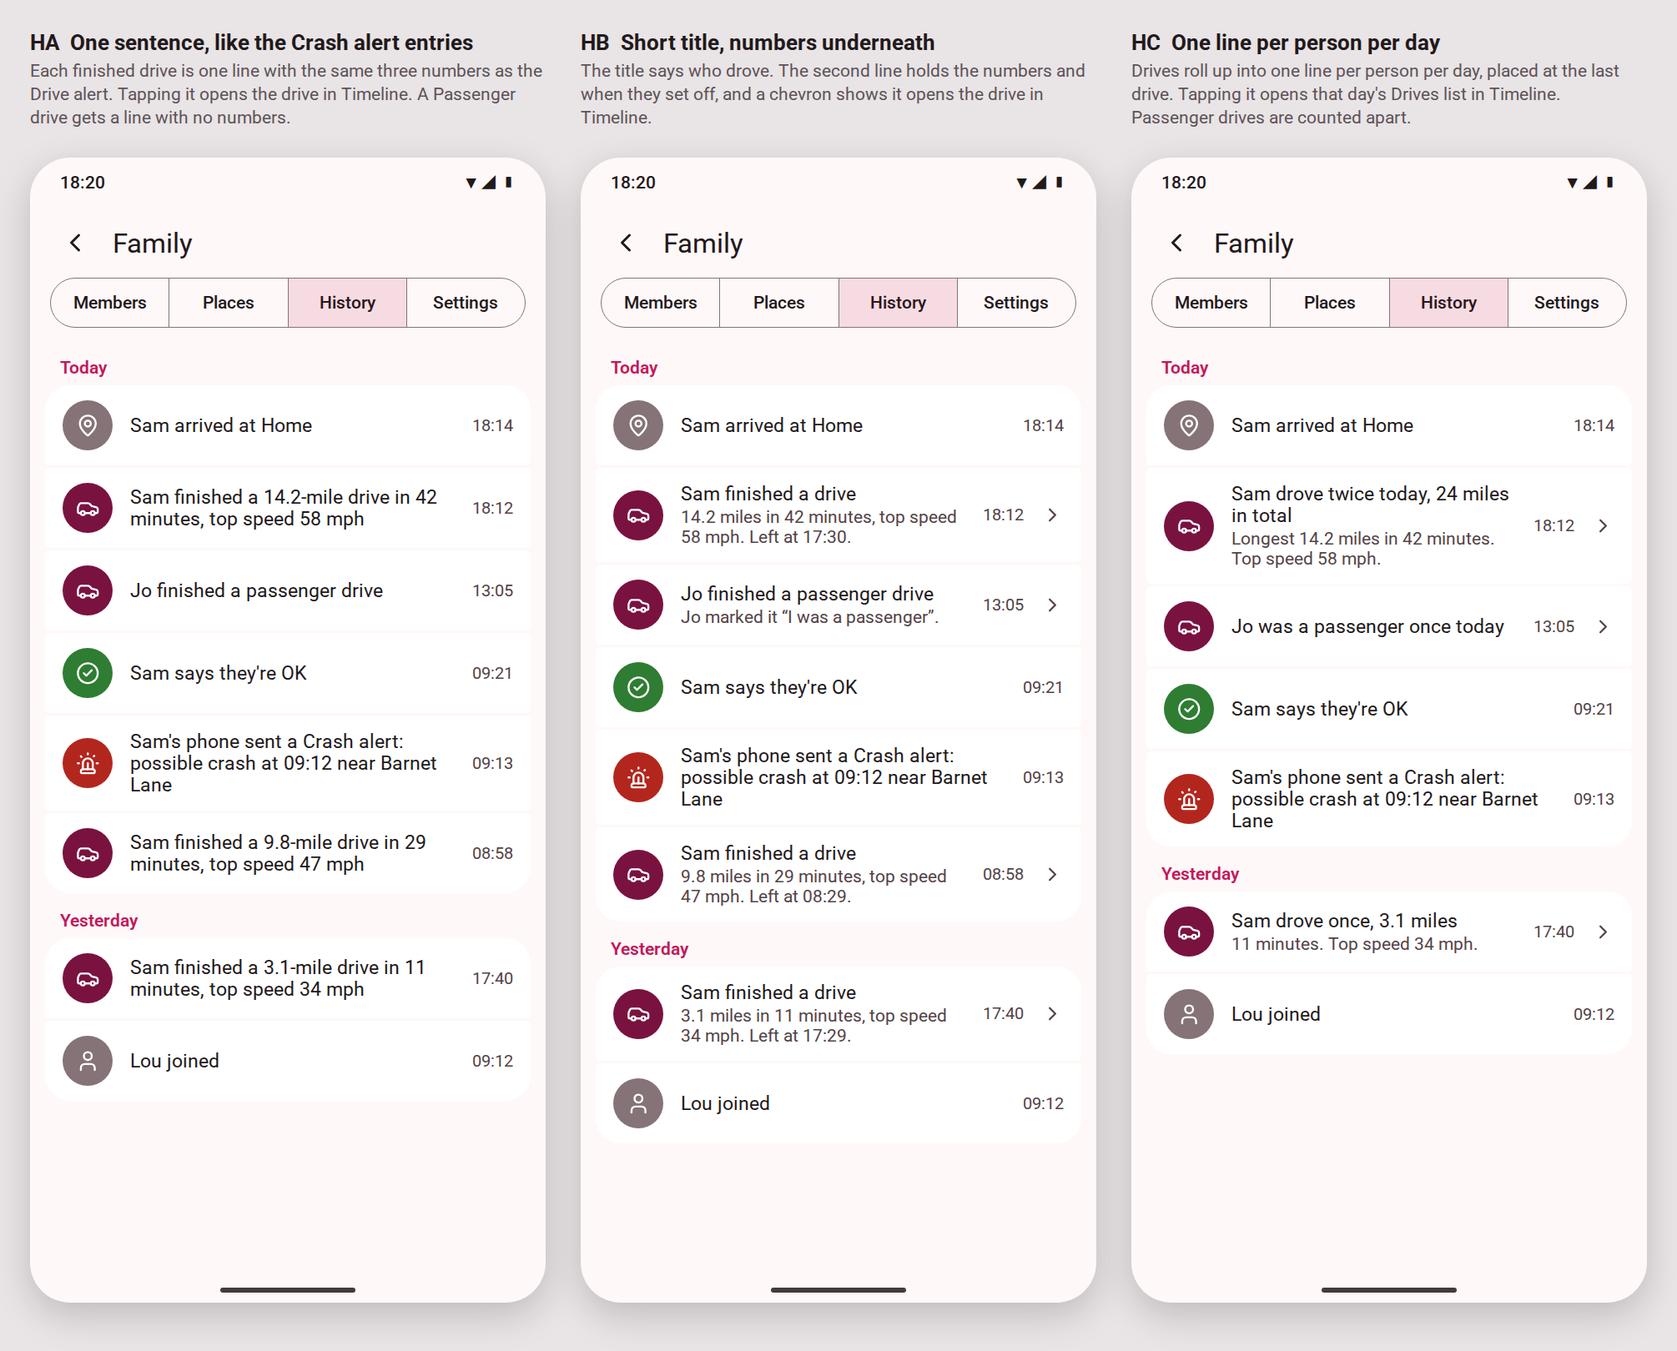
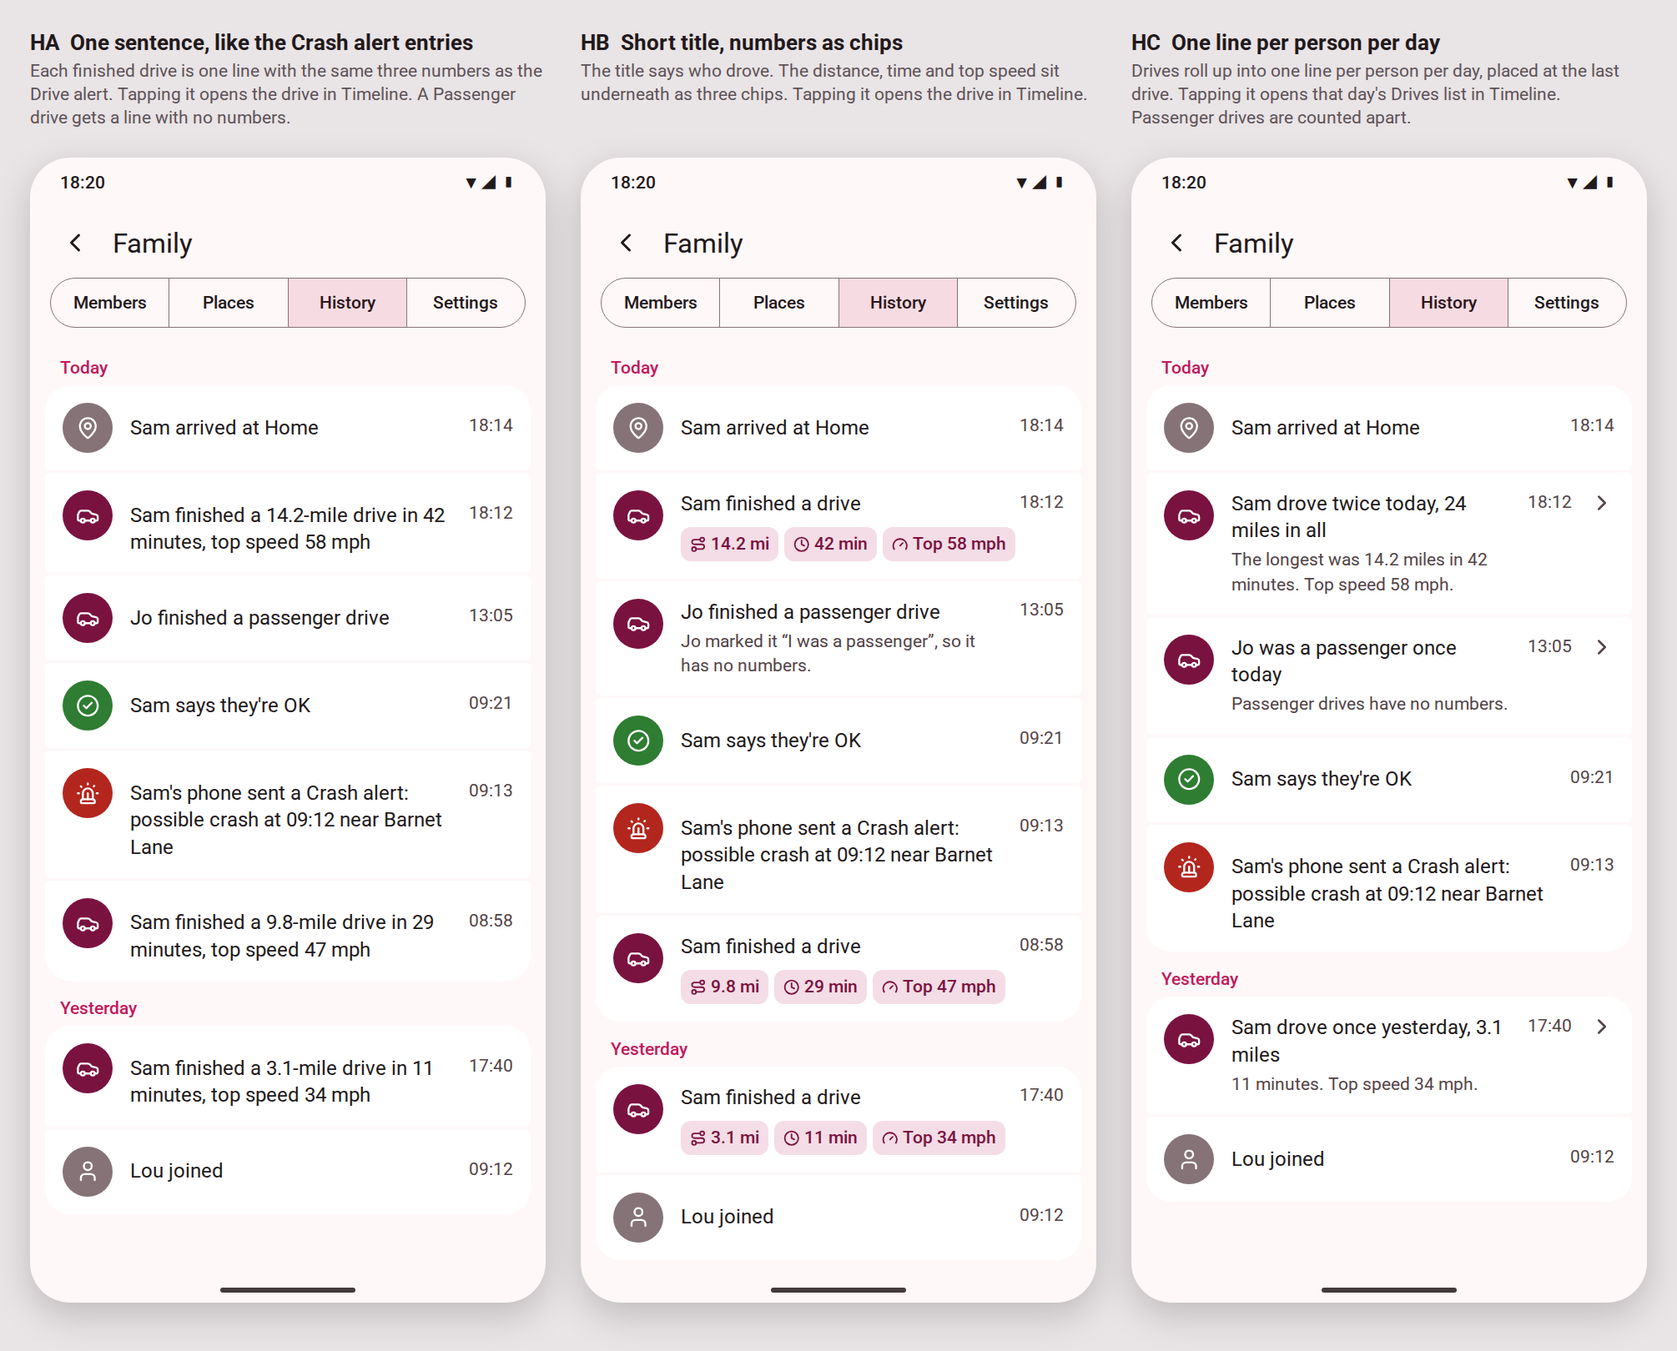
Polish drive History, Tell this Group and mute mockups

diff --git a/apps/mobile/prototype-drive-history/M.html b/apps/mobile/prototype-drive-history/M.html
@@ -1,17 +1,17 @@
 <!doctype html><html><head><meta charset="utf-8"><link rel="stylesheet" href="fonts.css"><link rel="stylesheet" href="common.css"><script src="icons.js"></script><script src="parts.js"></script><script src="crash.js"></script><script src="drive.js"></script></head><body><script>
-const card=(icon,emoji,title,summary,open,inner='')=>`<div style="background:var(--sc0);border-radius:24px;padding:14px 18px;margin:0 12px 12px"><div class="row"><div style="width:48px;height:48px;border-radius:12px;background:var(--scc);display:flex;align-items:center;justify-content:center;font-size:24px">${icon?ic(icon,24,DRV):emoji}</div><div class="sp"><div style="font-size:18px;font-weight:600">${title}</div><div class="muted" style="font-size:15px">${summary}</div></div>${ic(open?'chevron-down':'chevron-right',20,'var(--onv)')}</div>${inner}</div>`;
-const everyone=(on,s='Includes people who join later')=>`<div class="row" style="border-top:1px solid var(--sch);padding:14px 0;margin-top:12px"><div class="sp"><div style="font-size:16px;font-weight:600">Mute everyone's drives</div><div class="muted" style="font-size:14px">${s}</div></div>${sw(on)}</div>`;
+const card=(icon,emoji,title,summary,open,inner='')=>`<div style="background:var(--sc0);border-radius:24px;padding:14px 18px;margin:0 12px 12px"><div class="row"><div style="width:48px;height:48px;border-radius:12px;background:${icon?DRVC:'var(--scc)'};display:flex;align-items:center;justify-content:center;font-size:24px">${icon?ic(icon,24,DRV):emoji}</div><div class="sp"><div style="font-size:18px;font-weight:600">${title}</div><div class="muted" style="font-size:15px">${summary}</div></div>${ic(open?'chevron-down':'chevron-right',20,'var(--onv)')}</div>${inner}</div>`;
+const everyone=(on,s='Includes people who join later')=>`<div class="row" style="border-top:1px solid var(--sch);padding:14px 0;margin-top:12px"><div class="sp"><div style="font-size:16px;font-weight:600">Mute everyone</div><div class="muted" style="font-size:14px">${s}</div></div>${sw(on)}</div>`;
 const people=memberSw('Sa','#E6005C','Sam','Alerts on',true)+memberSw('Jo','#1565C0','Jo','Alerts off',false)+memberSw('Lo','#2E7D32','Lou','Drive alerts are off. Lou doesn\'t send them to Family.',false,true);
 const placesTabTop=`<div class="row" style="margin:0 16px 10px;justify-content:space-between"><div style="font-size:14px;font-weight:600;color:var(--p)">2 places</div><div class="btn tonal" style="height:36px">${ic('bell',16)}Alerts</div></div>`;
-const personCard=(extra)=>phone(plainMap+status+mapTop+`<div class="card">${personHead()}${btnRow(updBtns)}${extra}</div>`);
+const personCard=(extra)=>phone(plainMap+`<div style="position:absolute;left:0;right:0;bottom:0;height:130px;background:linear-gradient(transparent,#ece8e4 40%);z-index:4"></div>`+status+mapTop+`<div class="card">${personHead()}${btnRow(updBtns)}${extra}</div>`);
 document.body.innerHTML=[
 frame("MA&ensp;In the Group's Alerts screen, above the places","Places › Alerts already holds place alert mutes. Drive alerts becomes the first card there, with the same switches. Lou's row explains why it can't be on.",
 screen('Alerts',`<div class="muted" style="font-size:15px;margin:-6px 0 12px 66px">Family</div>`+card('car','','Drive alerts','Muted for Jo',true,everyone(false)+people)+card('','🏠','Home','On for everyone',false)+card('','🏫','School','Muted for Lou',false))),
 frame("MB&ensp;Group › Settings › Your alerts","The Settings tab gains a “Your alerts” section with Place alerts and Drive alerts rows. Each opens its own screen. The Alerts button on Places opens the same place screen.",
-screen('Family',tabs('Settings')+`<div class="sh">Your alerts</div><div class="grp">${settingRow('Place alerts','Muted for Lou at School',null,'map-pin').replace('</div></div>',`</div>${ic('chevron-right',18,'var(--onv)')}</div>`)}${settingRow('Drive alerts','Muted for Jo',null,'car').replace('</div></div>',`</div>${ic('chevron-right',18,'var(--onv)')}</div>`)}</div>`+foot('Only changes the alerts on your phones.')+`<div class="sh">Your location history</div><div class="grp">${settingRow('Last 30 days','The most this server keeps',null,'history')}</div><div class="sh">Your drives</div><div class="grp">${settingRow('Tell Family when I finish a drive','Members get a Drive alert',true,'car')}</div>`)),
+screen('Family',tabs('Settings')+`<div class="sh">Your alerts</div><div class="grp">${navrow('map-pin','Place alerts','Muted for Lou at School')}${drow('Drive alerts','Muted for Jo',null,true)}</div>`+foot('Only changes the alerts on your phones.')+`<div class="sh">Your location history</div><div class="grp">${settingRow('Last 30 days','The most this server keeps',null,'history')}</div><div class="sh">Your drives</div><div class="grp">${drow('Tell Family when I finish a drive','Members get a Drive alert',true)}</div>`)),
 frame("MB2&ensp;The Drive alerts screen from MB","Same switches as MA's card, on a screen of their own.",
 screen('Drive alerts',`<div class="muted" style="font-size:15px;margin:-6px 0 12px 66px">Family</div><div style="background:var(--sc0);border-radius:24px;padding:0 18px 4px;margin:0 12px">${everyone(false).replace('margin-top:12px;border-top:1px solid var(--sch)','').replace('border-top:1px solid var(--sch);','')}${people}</div>`+foot('When someone in Family finishes a drive, you get a Drive alert with the distance, time and top speed. Muting only changes your alerts. Their drives still show in Timeline.'))),
 frame("MP&ensp;From Sam's person card","Same row as “Mute everyone here” on a place's sheet. It only mutes Sam in the Group the card was opened from.",
-personCard(`<div class="row" style="border-top:1px solid var(--sch);margin-top:14px;padding-top:12px"><div class="ic" style="width:40px;height:40px;border-radius:20px;background:var(--scc);display:flex;align-items:center;justify-content:center">${ic('car',20)}</div><div class="sp"><div style="font-size:16px;font-weight:600">Sam's Drive alerts</div><div class="muted" style="font-size:14px">In Family. Only changes your alerts.</div></div>${sw(true)}</div>`)),
+personCard(`<div class="row" style="border-top:1px solid var(--sch);margin-top:14px;padding-top:12px"><div style="width:40px;height:40px;border-radius:20px;background:${DRVC};display:flex;align-items:center;justify-content:center;flex:none">${ic('car',20,DRV)}</div><div class="sp"><div style="font-size:16px;font-weight:600">Sam's Drive alerts</div><div class="muted" style="font-size:14px">In Family. Only changes your alerts.</div></div>${sw(true)}</div>`)),
 ].join("");
 </script></body></html>

diff --git a/apps/mobile/prototype-drive-history/T.html b/apps/mobile/prototype-drive-history/T.html
@@ -1,17 +1,17 @@
 <!doctype html><html><head><meta charset="utf-8"><link rel="stylesheet" href="fonts.css"><link rel="stylesheet" href="common.css"><script src="icons.js"></script><script src="parts.js"></script><script src="crash.js"></script><script src="drive.js"></script></head><body><script>
 const sh=(t)=>`<div class="sh">${t}</div>`;
-const sub='If this phone suspects a crash during a drive and nobody taps I\'m OK within 60 s, Family and Work get a Crash alert with the time, place and speed.';
-const dtop=`<div class="grp">${settingRow('Drive detection','Records your drives and shares them with your Groups',true,'car')}${settingRow('Crash alerts',sub,true,'siren')}</div>`;
-const grow=(c,name,s,on)=>`<div class="item"><div style="width:40px;height:40px;border-radius:20px;background:${c};flex:none"></div><div class="t">${name}<small>${s}</small></div>${sw(on)}</div>`;
+const sub='Family and Work get a Crash alert if you don\'t answer after a possible crash';
+const dtop=`<div class="grp">${drow('Drive detection','Records your drives and shares them with your Groups',true)}${settingRow('Crash alerts',sub,true,'siren')}</div>`;
+const grow=(c,name,s,on)=>`<div class="item">${gav(c,name)}<div class="t">${name}<small>${s}</small></div>${sw(on)}</div>`;
 const seg3=`<div class="seg"><div>${ic('calendar-days',18)}Day</div><div class="on">${ic('car',18)}Drives</div><div>${ic('chart-column',18)}Week</div></div>`;
 document.body.innerHTML=[
 frame("TA&ensp;Account › Drive detection lists your Groups","One switch per Group under Crash alerts, all on by default. The Group's own Settings tab has nothing new.",
 screen('Drive detection',dtop+sh('Tell these Groups when I finish a drive')+`<div class="grp">${grow('#E6005C','Family','Members get a Drive alert',true)}${grow('#1565C0','Work','No Drive alerts. Your drives still show in their Timeline.',false)}</div>`+foot('A Drive alert gives the distance, time and top speed of a drive you just finished. It never includes your score or Driving events. Members of Work see “Drive alerts are off”.'))),
 frame("TB&ensp;Group › Settings, next to your history","The switch sits under “Your location history” in each Group's Settings tab, because both say what this Group gets from you. Drive detection has nothing new.",
-screen('Family',tabs('Settings')+sh('Your location history')+`<div class="grp">${settingRow('Last 30 days','The most this server keeps',null,'history')}</div>`+sh('Your drives')+`<div class="grp">${settingRow('Tell Family when I finish a drive','Members get a Drive alert with the distance, time and top speed. Never your score or Driving events.',true,'car')}</div>`+foot('Your drives show in Family\'s Timeline either way. Only you can change this.')+sh('Appearance')+`<div class="grp">${settingRow('Group colour','Pink',null,'users')}</div>`)),
+screen('Family',tabs('Settings')+sh('Your location history')+`<div class="grp">${settingRow('Last 30 days','The most this server keeps',null,'history')}</div>`+sh('Your drives')+`<div class="grp">${drow('Tell Family when I finish a drive','Members get a Drive alert with the distance, time and top speed. Never your score or Driving events.',true)}</div>`+foot('Your drives show in Family\'s Timeline either way. Only you can change this.')+sh('Appearance')+`<div class="grp">${settingRow('Group colour','Pink',null,'users')}</div>`)),
 frame("TC&ensp;Both places, one setting","TA's list in Drive detection, and the same switch in each Group's Settings tab. Changing either changes the other.",
-screen('Family',tabs('Settings')+sh('Your location history')+`<div class="grp">${settingRow('Last 30 days','The most this server keeps',null,'history')}</div>`+sh('Your drives')+`<div class="grp">${settingRow('Tell Family when I finish a drive','Members get a Drive alert with the distance, time and top speed.',true,'car')}</div>`+foot('Also in Account › Drive detection, which lists all your Groups.'))),
+screen('Family',tabs('Settings')+sh('Your location history')+`<div class="grp">${settingRow('Last 30 days','The most this server keeps',null,'history')}</div>`+sh('Your drives')+`<div class="grp">${drow('Tell Family when I finish a drive','Members get a Drive alert with the distance, time and top speed.',true)}</div>`+foot('Also in Account › Drive detection, which lists all your Groups.'))),
 frame("TD&ensp;What members of Work see","“Drive alerts are off” shows where Sam's drives show, like “Crash alerts are off”, and on the Drive alerts mute screen. No notification.",
-screen('Timeline',`<div style="padding:4px 12px 0">${seg3}<div class="row" style="margin:12px 2px 0;gap:8px"><div class="gchip" style="background:var(--sc);height:36px">${av('Sa',24)}Sam${ic('chevron-down',16)}</div><div class="gchip" style="height:36px;font-size:14px">${ic('smartphone',16)}Phone${ic('chevron-down',16)}</div></div></div><div class="info" style="margin:14px 12px 0;font-size:14px">${ic('bell-off',18)}<div><b>Drive alerts are off.</b> Sam doesn't send Work a Drive alert when they finish a drive. Their drives still show here. Only Sam can change this.</div></div>`+dayH('Today')+`<div class="grp"><div class="item"><div class="ic">${ic('car',20)}</div><div class="t">17:30 – 18:12<small>14.2 mi, 42 min, top 58 mph</small></div>${score(88)}</div><div class="item"><div class="ic">${ic('car',20)}</div><div class="t">08:29 – 08:58<small>9.8 mi, 29 min, top 47 mph</small></div>${score(92)}</div></div>`)),
+screen('Timeline',`<div style="padding:4px 12px 0">${seg3}<div class="row" style="margin:12px 2px 0;gap:8px"><div class="gchip" style="background:var(--sc);height:36px">${av('Sa',24)}Sam${ic('chevron-down',16)}</div><div class="gchip" style="height:36px;font-size:14px">${ic('smartphone',16)}Phone${ic('chevron-down',16)}</div></div></div><div class="info" style="margin:14px 12px 0;font-size:14px;color:var(--on)">${ic('bell-off',18,DRV)}<div><b>Drive alerts are off.</b> Sam doesn't send Work a Drive alert when they finish a drive. Their drives still show here. Only Sam can change this.</div></div>`+dayH('Today')+`<div class="grp"><div class="item">${dIc()}<div class="t">17:30 – 18:12<small>14.2 mi in 42 min, top 58 mph</small></div>${score(88)}</div><div class="item">${dIc()}<div class="t">08:29 – 08:58<small>9.8 mi in 29 min, top 47 mph</small></div>${score(92)}</div></div>`)),
 ].join("");
 </script></body></html>

diff --git a/apps/mobile/prototype-drive-history/drive.js b/apps/mobile/prototype-drive-history/drive.js
@@ -1,8 +1,13 @@
-const DRV='#7A1240';
-const HEAD=`<!doctype html><html><head><meta charset="utf-8"><link rel="stylesheet" href="fonts.css"><link rel="stylesheet" href="common.css"></head><body>`;
-const hrow=(icon,c,t,time,sub='',chev=false)=>`<div class="item" style="min-height:56px"><div class="ic" style="background:${c};color:#fff">${ic(icon,19,'#fff')}</div><div class="t" style="font-size:15px">${t}${sub?`<small>${sub}</small>`:''}</div><span class="muted" style="font-size:13px">${time}</span>${chev?ic('chevron-right',18,'var(--onv)'):''}</div>`;
+const DRV='#7A1240',DRVC='#F4DDE6';
+const hrow=(icon,c,t,time,sub='',chev=false)=>`<div class="item" style="min-height:60px;align-items:flex-start;padding:14px 14px"><div class="ic" style="background:${c};color:#fff">${ic(icon,19,'#fff')}</div><div class="t" style="font-size:16px;line-height:1.35;padding-top:${sub?0:9}px">${t}${sub}</div><span class="muted" style="font-size:14px;padding-top:${sub?1:10}px;font-variant-numeric:tabular-nums">${time}</span>${chev?`<div style="padding-top:${sub?0:8}px">${ic('chevron-right',20,'var(--onv)')}</div>`:''}</div>`;
+const chips=(a)=>`<div style="display:flex;gap:5px;margin-top:8px;flex-wrap:nowrap">${a.map(([i,t])=>`<span style="display:inline-flex;align-items:center;gap:4px;background:${DRVC};color:${DRV};border-radius:8px;padding:4px 7px;white-space:nowrap;font-size:14px;font-weight:500">${ic(i,13,DRV,2.2)}${t}</span>`).join('')}</div>`;
+const line=(t)=>`<div style="font-size:14px;color:var(--onv);margin-top:3px;line-height:1.4">${t}</div>`;
 const tabs=(on)=>`<div style="padding:4px 16px 10px"><div class="seg">${['Members','Places','History','Settings'].map(t=>`<div class="${t===on?'on':''}">${t}</div>`).join('')}</div></div>`;
-const dayH=(t)=>`<div class="day" style="font-size:14px;color:var(--p);letter-spacing:0">${t}</div>`;
-const sw=(on,dis=false)=>`<div style="width:52px;height:32px;border-radius:16px;background:${on?'var(--p)':'var(--sch)'};border:2px solid ${on?'var(--p)':'var(--ol)'};position:relative;flex:none;${dis?'opacity:.4':''}"><div style="position:absolute;top:${on?3:6}px;${on?'right:3px':'left:6px'};width:${on?22:16}px;height:${on?22:16}px;border-radius:11px;background:${on?'#fff':'var(--ol)'}"></div></div>`;
-const foot=(t)=>`<div class="muted" style="font-size:14px;margin:8px 24px 0;line-height:1.4">${t}</div>`;
-const memberSw=(i,c,name,state,on,dis=false)=>`<div class="row" style="border-top:1px solid var(--sch);padding:12px 0">${av(i,40,c)}<div class="sp" style="font-size:17px">${name}${state?`<div class="muted" style="font-size:14px">${state}</div>`:''}</div>${sw(on,dis)}</div>`;
+const dayH=(t)=>`<div class="day" style="font-size:14px;color:var(--p);letter-spacing:0;font-weight:500">${t}</div>`;
+const sw=(on,dis=false)=>`<div style="width:52px;height:32px;border-radius:16px;background:${on?'var(--p)':'var(--sch)'};border:2px solid ${on?'var(--p)':'var(--ol)'};position:relative;flex:none;${dis?'opacity:.38':''}"><div style="position:absolute;top:${on?3:6}px;${on?'right:3px':'left:6px'};width:${on?22:16}px;height:${on?22:16}px;border-radius:11px;background:${on?'#fff':'var(--ol)'}"></div></div>`;
+const foot=(t)=>`<div style="font-size:14px;color:var(--onv);margin:10px 26px 0;line-height:1.45">${t}</div>`;
+const memberSw=(i,c,name,state,on,dis=false)=>`<div class="row" style="border-top:1px solid var(--sch);padding:12px 0;align-items:center">${av(i,40,c)}<div class="sp" style="font-size:17px">${name}${state?`<div style="font-size:14px;color:var(--onv);line-height:1.35">${state}</div>`:''}</div>${sw(on,dis)}</div>`;
+const dIc=(s=20)=>`<div class="ic" style="background:${DRVC};color:${DRV}">${ic('car',s,DRV)}</div>`;
+const drow=(t,s,on,chev=false)=>`<div class="item">${dIc()}<div class="t">${t}${s?`<small>${s}</small>`:''}</div>${on==null?'':sw(on)}${chev?ic('chevron-right',20,'var(--onv)'):''}</div>`;
+const navrow=(icon,t,s)=>`<div class="item"><div class="ic">${ic(icon,20)}</div><div class="t">${t}<small>${s}</small></div>${ic('chevron-right',20,'var(--onv)')}</div>`;
+const gav=(c,name)=>`<div style="width:40px;height:40px;border-radius:20px;background:${c}22;display:flex;align-items:center;justify-content:center;flex:none;color:${c};font-weight:600;font-size:16px">${name[0]}</div>`;

diff --git a/apps/mobile/prototype-drive-history/H.html b/apps/mobile/prototype-drive-history/H.html
@@ -7,11 +7,11 @@ document.body.innerHTML=[
 frame("HA&ensp;One sentence, like the Crash alert entries","Each finished drive is one line with the same three numbers as the Drive alert. Tapping it opens the drive in Timeline. A Passenger drive gets a line with no numbers.",
 hist(place+hrow('car',DRV,"Sam finished a 14.2-mile drive in 42 minutes, top speed 58 mph",'18:12')+hrow('car',DRV,"Jo finished a passenger drive",'13:05')+crashOk+crash+hrow('car',DRV,"Sam finished a 9.8-mile drive in 29 minutes, top speed 47 mph",'08:58'),
 hrow('car',DRV,"Sam finished a 3.1-mile drive in 11 minutes, top speed 34 mph",'17:40')+hrow('user','#857377','Lou joined','09:12'))),
-frame("HB&ensp;Short title, numbers underneath","The title says who drove. The second line holds the numbers and when they set off, and a chevron shows it opens the drive in Timeline.",
-hist(place+hrow('car',DRV,"Sam finished a drive",'18:12','14.2 miles in 42 minutes, top speed 58 mph. Left at 17:30.',true)+hrow('car',DRV,"Jo finished a passenger drive",'13:05','Jo marked it “I was a passenger”.',true)+crashOk+crash+hrow('car',DRV,"Sam finished a drive",'08:58','9.8 miles in 29 minutes, top speed 47 mph. Left at 08:29.',true),
-hrow('car',DRV,"Sam finished a drive",'17:40','3.1 miles in 11 minutes, top speed 34 mph. Left at 17:29.',true)+hrow('user','#857377','Lou joined','09:12'))),
+frame("HB&ensp;Short title, numbers as chips","The title says who drove. The distance, time and top speed sit underneath as three chips. Tapping it opens the drive in Timeline.",
+hist(place+hrow('car',DRV,'Sam finished a drive','18:12',chips([['route','14.2 mi'],['clock','42 min'],['gauge','Top 58 mph']]))+hrow('car',DRV,'Jo finished a passenger drive','13:05',line('Jo marked it “I was a passenger”, so it has no numbers.'))+crashOk+crash+hrow('car',DRV,'Sam finished a drive','08:58',chips([['route','9.8 mi'],['clock','29 min'],['gauge','Top 47 mph']])),
+hrow('car',DRV,'Sam finished a drive','17:40',chips([['route','3.1 mi'],['clock','11 min'],['gauge','Top 34 mph']]))+hrow('user','#857377','Lou joined','09:12'))),
 frame("HC&ensp;One line per person per day","Drives roll up into one line per person per day, placed at the last drive. Tapping it opens that day's Drives list in Timeline. Passenger drives are counted apart.",
-hist(place+hrow('car',DRV,"Sam drove twice today, 24 miles in total",'18:12','Longest 14.2 miles in 42 minutes. Top speed 58 mph.',true)+hrow('car',DRV,"Jo was a passenger once today",'13:05','',true)+crashOk+crash,
-hrow('car',DRV,"Sam drove once, 3.1 miles",'17:40','11 minutes. Top speed 34 mph.',true)+hrow('user','#857377','Lou joined','09:12'))),
+hist(place+hrow('car',DRV,'Sam drove twice today, 24 miles in all','18:12',line('The longest was 14.2 miles in 42 minutes. Top speed 58 mph.'),true)+hrow('car',DRV,'Jo was a passenger once today','13:05',line('Passenger drives have no numbers.'),true)+crashOk+crash,
+hrow('car',DRV,'Sam drove once yesterday, 3.1 miles','17:40',line('11 minutes. Top speed 34 mph.'),true)+hrow('user','#857377','Lou joined','09:12'))),
 ].join("");
 </script></body></html>
